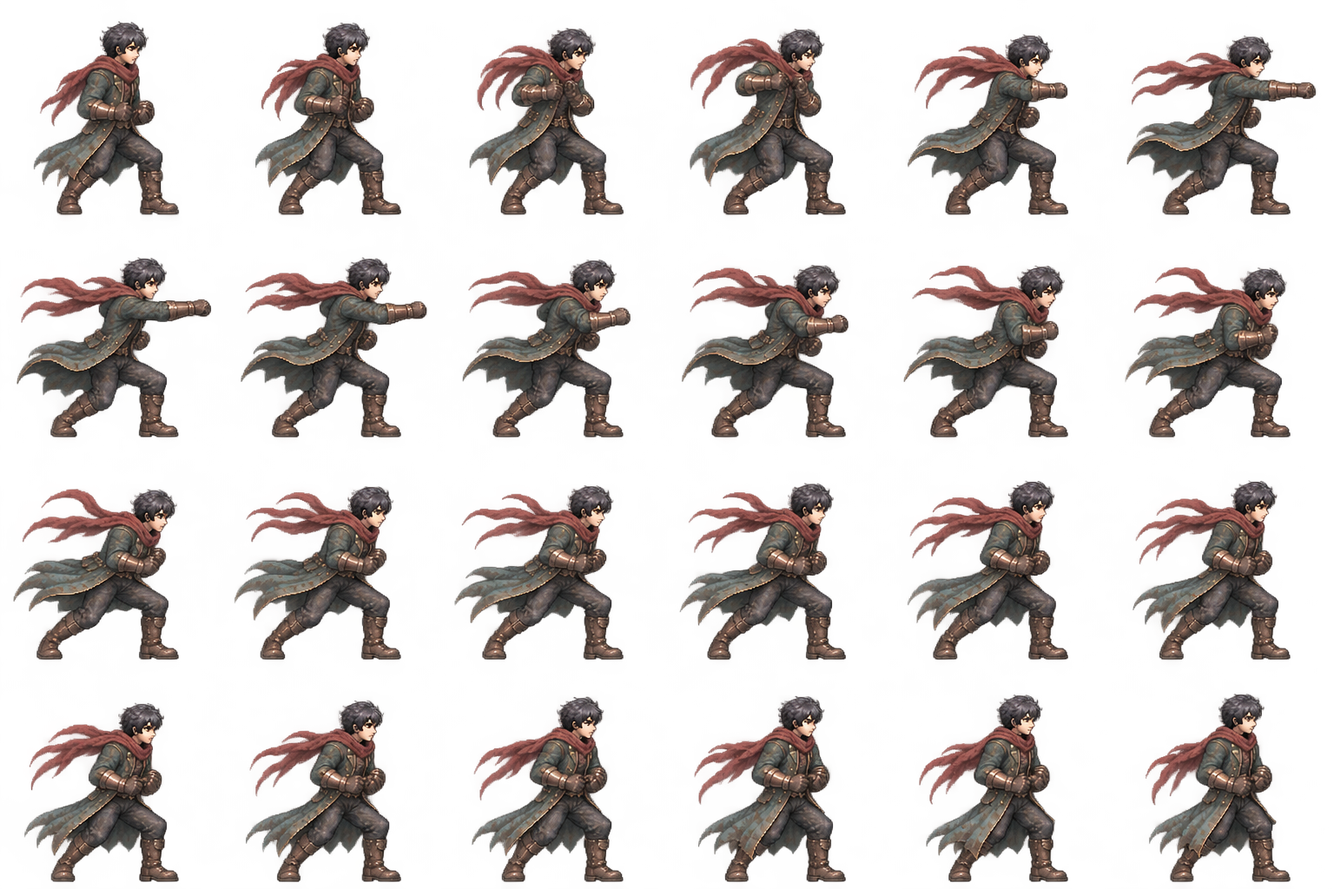
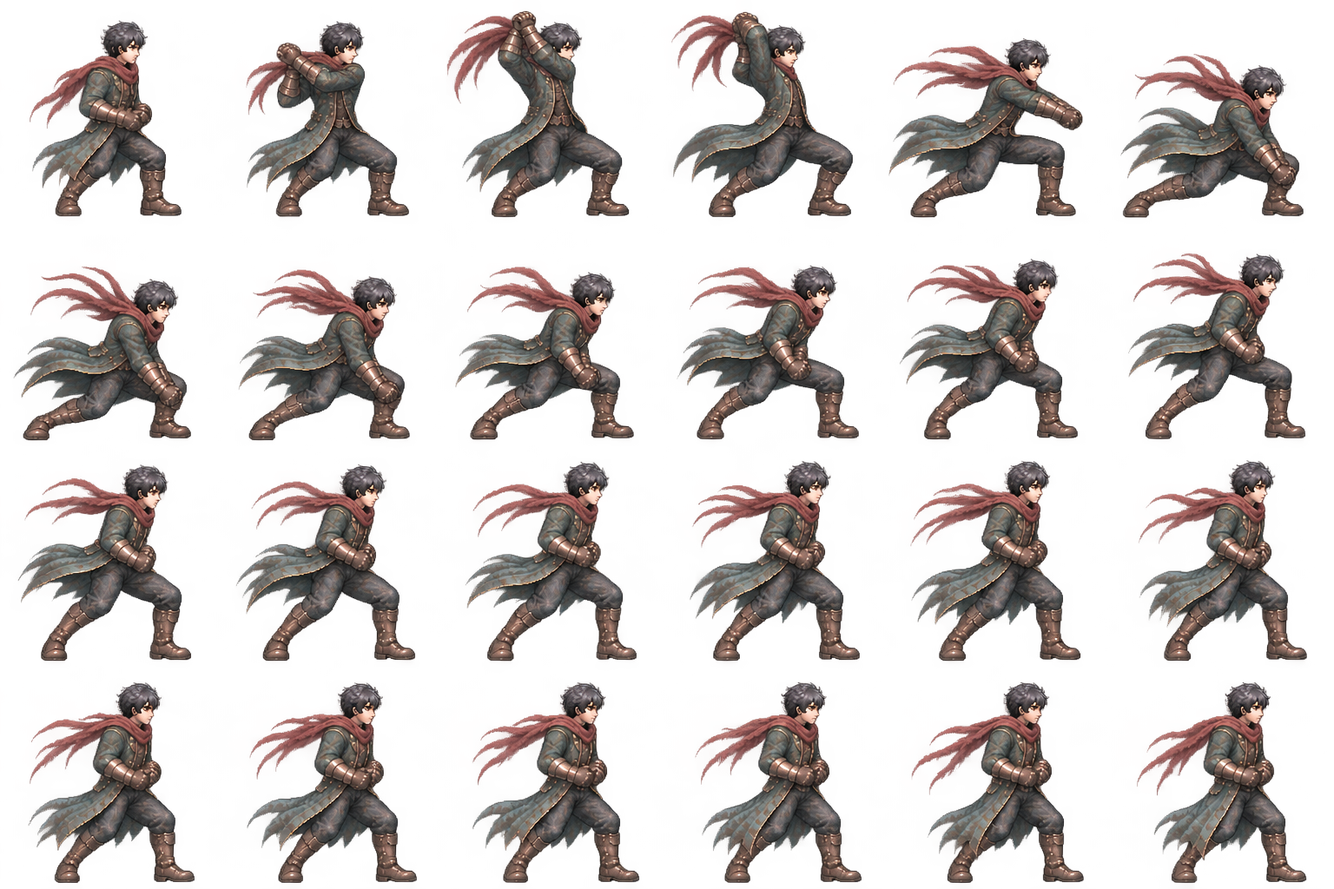
Make sword cuts broad and give thrusts a clear elbow-back windup

diff --git a/seventh-bell/src/cuts.js b/seventh-bell/src/cuts.js
@@ -1,12 +1,12 @@
 // Each melee clip has 24 actual body drawings in a 6 x 4 atlas. These are
 // sprite frames, not trail samples or repeated copies of the old eight poses.
-export const STEEL={length:30,guard:.185,grip:.095,axis:.5};
+export const STEEL={length:48,guard:.185,grip:.095,axis:.5};
 export const CUT_FRAMES=24;
-export const CUT_CLIPS=['light1','light2','light3','heavy','air','plunge'];
-const HANDS={"light1":[[83,64],[82,64],[82,54],[81,48],[100,52],[108,52],[109,54],[111,54],[105,56],[101,58],[95,61],[92,63],[86,65],[85,66],[85,66],[85,66],[85,66],[85,66],[85,66],[85,66],[85,66],[84,65],[84,65],[84,65]],"light2":[[81,80],[80,85],[75,87],[75,89],[95,58],[107,23],[99,15],[101,24],[103,35],[101,49],[96,58],[93,66],[87,67],[86,68],[86,69],[86,70],[86,70],[86,71],[85,73],[85,73],[85,73],[85,73],[85,73],[85,73]],"light3":[[80,75],[84,53],[85,36],[66,16],[101,64],[113,89],[97,98],[97,91],[94,83],[90,78],[89,71],[87,68],[86,67],[86,67],[86,67],[86,67],[86,67],[86,67],[86,68],[86,68],[86,68],[86,68],[86,68],[86,68]],"heavy":[[87,77],[85,53],[82,36],[72,13],[102,38],[111,97],[96,103],[95,91],[92,83],[90,79],[87,74],[87,69],[84,69],[85,69],[85,69],[85,69],[85,69],[85,69],[85,70],[85,70],[85,70],[85,70],[85,70],[85,70]],"air":[[79,80],[84,49],[78,30],[65,9],[104,66],[112,91],[96,98],[96,90],[94,83],[91,79],[90,75],[88,71],[86,70],[86,70],[86,70],[86,70],[86,70],[86,70],[86,70],[86,70],[86,70],[86,70],[86,70],[86,70]],"plunge":[[88,68],[84,44],[86,38],[80,47],[79,73],[88,110],[79,98],[77,86],[80,77],[83,70],[85,68],[85,67],[85,67],[85,67],[85,67],[85,67],[85,67],[85,67],[85,67],[85,67],[85,67],[85,67],[85,67],[85,67]]};
-const FEET={"light1":[123.5,123.5,123.5,123.5,123.5,123.5,123.5,124.0,123.5,123.5,123.5,123.5,124.0,124.0,124.0,124.0,124.0,124.0,124.0,124.0,124.0,124.0,124.0,124.0],"light2":[122.5,122.5,122.5,122.5,122.5,122.5,122.0,122.5,122.5,122.5,122.0,122.5,122.5,122.5,122.5,122.5,122.5,122.5,122.5,122.5,122.5,122.5,122.5,122.5],"light3":[124.0,124.0,124.0,124.0,124.5,124.5,124.5,124.5,124.5,124.5,124.5,124.5,123.5,123.5,123.5,124.0,124.0,123.5,124.0,124.0,124.0,124.0,124.0,124.0],"heavy":[124.0,124.0,124.5,124.0,124.5,124.0,124.0,124.0,124.0,124.0,124.0,124.0,123.5,124.0,123.5,123.5,123.5,123.5,123.5,123.5,123.5,123.5,123.5,123.5],"air":[125.5,124.5,125.0,126.0,125.0,123.5,122.0,122.5,124.5,125.0,125.0,125.0,123.0,122.5,122.5,122.0,123.5,123.5,122.5,123.5,122.5,123.5,123.5,123.5],"plunge":[120.5,112.0,120.0,123.5,128.0,128.0,123.5,123.5,123.5,123.5,123.5,123.5,122.5,122.5,122.5,122.5,122.5,122.5,123.0,123.0,123.0,123.0,123.0,123.0]};
-const ROOTS={"light1":[72,72,72,73,74,74,74,74,74,74,74,74,72,72,72,72,72,72,72,72,72,72,72,72],"light2":[70,70,70,70,70,70,70,70,70,70,70,70,70,70,70,70,70,70,70,70,70,70,70,70],"light3":[70,70,70,70,70,70,70,70,70,70,70,70,70,70,70,70,70,70,70,70,70,70,70,70],"heavy":[70,70,70,70,70,70,70,70,70,70,70,70,70,70,70,70,70,70,70,70,70,70,70,70],"air":[70,70,70,70,70,70,70,70,70,70,70,70,70,70,70,70,70,70,70,70,70,70,70,70],"plunge":[74,74,74,74,74,74,74,74,74,74,74,74,74,74,74,74,74,74,74,74,74,74,74,74]};
-const ANGLES={"light1":[35,8,-12,-30,-22,25,32,38,43,48,50,49,47,45,43,41,39,38,37,36,35,35,35,35],"light2":[35,55,85,110,50,-100,-105,-96,-82,-63,-42,-20,0,14,22,28,32,35,35,35,35,35,35,35],"light3":[35,-5,-65,-120,-100,58,67,65,62,57,50,45,42,39,37,36,35,35,35,35,35,35,35,35],"heavy":[35,-10,-70,-125,-105,66,75,70,65,59,53,48,43,40,38,36,35,35,35,35,35,35,35,35],"air":[35,-10,-70,-125,-100,65,75,70,65,59,53,48,43,40,38,36,35,35,35,35,35,35,35,35],"plunge":[35,70,90,90,90,90,70,60,50,45,42,40,38,36,35,35,35,35,35,35,35,35,35,35]};
+export const CUT_CLIPS=['light1','light2','light3','heavy','air','plunge','thrust'];
+const HANDS={"light1":[[80,68],[38,30],[45,15],[47,14],[102,67],[102,98],[99,96],[100,94],[99,89],[93,85],[86,78],[87,73],[85,69],[85,69],[85,69],[85,69],[85,69],[85,69],[85,69],[85,69],[85,69],[85,69],[85,69],[85,69]],"light2":[[81,80],[80,85],[75,87],[75,89],[95,58],[107,23],[99,15],[101,24],[103,35],[101,49],[96,58],[93,66],[87,67],[86,68],[86,69],[86,70],[86,70],[86,71],[85,73],[85,73],[85,73],[85,73],[85,73],[85,73]],"light3":[[80,75],[84,53],[85,36],[66,16],[101,64],[113,89],[97,98],[97,91],[94,83],[90,78],[89,71],[87,68],[86,67],[86,67],[86,67],[86,67],[86,67],[86,67],[86,68],[86,68],[86,68],[86,68],[86,68],[86,68]],"heavy":[[87,77],[85,53],[82,36],[72,13],[102,38],[111,97],[96,103],[95,91],[92,83],[90,79],[87,74],[87,69],[84,69],[85,69],[85,69],[85,69],[85,69],[85,69],[85,70],[85,70],[85,70],[85,70],[85,70],[85,70]],"air":[[79,80],[84,49],[78,30],[65,9],[104,66],[112,91],[96,98],[96,90],[94,83],[91,79],[90,75],[88,71],[86,70],[86,70],[86,70],[86,70],[86,70],[86,70],[86,70],[86,70],[86,70],[86,70],[86,70],[86,70]],"plunge":[[88,68],[84,44],[86,38],[80,47],[79,73],[88,110],[79,98],[77,86],[80,77],[83,70],[85,68],[85,67],[85,67],[85,67],[85,67],[85,67],[85,67],[85,67],[85,67],[85,67],[85,67],[85,67],[85,67],[85,67]],"thrust":[[81,68],[63,66],[52,65],[47,65],[101,52],[116,51],[119,49],[120,49],[120,50],[117,53],[111,56],[104,57],[98,59],[95,61],[88,64],[88,65],[88,65],[88,66],[87,65],[87,65],[87,65],[87,65],[87,65],[87,65]]};
+const FEET={"light1":[124.5,124.5,125.0,125.0,125.0,125.0,125.5,125.5,125.0,125.0,125.0,125.0,124.5,124.5,124.5,124.5,124.5,124.5,124.5,124.5,124.5,124.5,124.5,124.5],"light2":[122.5,122.5,122.5,122.5,122.5,122.5,122.0,122.5,122.5,122.5,122.0,122.5,122.5,122.5,122.5,122.5,122.5,122.5,122.5,122.5,122.5,122.5,122.5,122.5],"light3":[124.0,124.0,124.0,124.0,124.5,124.5,124.5,124.5,124.5,124.5,124.5,124.5,123.5,123.5,123.5,124.0,124.0,123.5,124.0,124.0,124.0,124.0,124.0,124.0],"heavy":[124.0,124.0,124.5,124.0,124.5,124.0,124.0,124.0,124.0,124.0,124.0,124.0,123.5,124.0,123.5,123.5,123.5,123.5,123.5,123.5,123.5,123.5,123.5,123.5],"air":[125.5,124.5,125.0,126.0,125.0,123.5,122.0,122.5,124.5,125.0,125.0,125.0,123.0,122.5,122.5,122.0,123.5,123.5,122.5,123.5,122.5,123.5,123.5,123.5],"plunge":[120.5,112.0,120.0,123.5,128.0,128.0,123.5,123.5,123.5,123.5,123.5,123.5,122.5,122.5,122.5,122.5,122.5,122.5,123.0,123.0,123.0,123.0,123.0,123.0],"thrust":[124.5,124.5,124.5,124.5,124.5,124.5,124.5,124.5,124.5,124.5,124.5,124.5,124.5,124.5,124.5,124.5,124.5,124.5,124.5,124.5,124.5,124.5,124.5,124.5]};
+const ROOTS={"light1":[70,70,70,70,70,70,70,70,70,70,70,70,70,70,70,70,70,70,70,70,70,70,70,70],"light2":[70,70,70,70,70,70,70,70,70,70,70,70,70,70,70,70,70,70,70,70,70,70,70,70],"light3":[70,70,70,70,70,70,70,70,70,70,70,70,70,70,70,70,70,70,70,70,70,70,70,70],"heavy":[70,70,70,70,70,70,70,70,70,70,70,70,70,70,70,70,70,70,70,70,70,70,70,70],"air":[70,70,70,70,70,70,70,70,70,70,70,70,70,70,70,70,70,70,70,70,70,70,70,70],"plunge":[74,74,74,74,74,74,74,74,74,74,74,74,74,74,74,74,74,74,74,74,74,74,74,74],"thrust":[70,70,70,70,70,70,70,70,70,70,70,70,70,70,70,70,70,70,70,70,70,70,70,70]};
+const ANGLES={"light1":[20,-70,-120,-130,-60,30,30,30,30,30,30,28,26,24,22,20,20,20,20,20,20,20,20,20],"light2":[20,25,20,15,35,-110,-110,-110,-110,-110,-105,-95,-80,-60,-40,-20,0,15,20,20,20,20,20,20],"light3":[20,-30,-90,-130,-70,35,35,35,35,35,35,32,29,26,23,20,20,20,20,20,20,20,20,20],"heavy":[20,-30,-90,-135,-75,40,40,40,40,40,40,36,32,28,24,20,20,20,20,20,20,20,20,20],"air":[20,-30,-90,-130,-65,65,65,65,65,65,60,55,50,45,40,35,30,25,20,20,20,20,20,20],"plunge":[35,70,90,90,90,90,70,60,50,45,42,40,38,36,35,35,35,35,35,35,35,35,35,35],"thrust":[0,0,0,0,0,0,0,0,0,0,0,0,0,0,0,0,0,0,0,0,0,0,0,0]};
 // Four short anticipation drawings, two contact drawings, eighteen recovery
 // drawings. Cancels can intentionally interrupt recovery; there is no 3D yaw.
 export function cutStage(a){
@@ -18,17 +18,17 @@ export function cutStage(a){
  if(t<s.end)return 4+Math.min(1,Math.floor((t-s.windup)/(s.end-s.windup)*2));
  return 6+Math.min(17,Math.floor((t-s.end)/(s.duration-s.end)*18));
 }
-const CLIP={charge:'heavy',thrust:'light1',upper:'light2',counter:'light1',plunge:'plunge'};
+const CLIP={charge:'heavy',thrust:'thrust',upper:'light2',counter:'light1',plunge:'plunge'};
 export function cutAngle(a){return ANGLES[CLIP[a.kind]||(a.air?'air':a.kind)][cutStage(a)];}
 export function cutPose(p,clock=0){const a=p.action;
- if(!a){if(p.grounded&&Math.abs(p.vx)<12&&!p.brake&&!p.land&&!p.hurt&&!p.dead){const col=Math.floor(clock*5)%8;return{sheet:'cut-body',row:3,col,size:74,root:[79.5,79.5,79.5,79.5,79.5,78.5,78.5,79][col],foot:[121,121,121,122,122,122,121,121][col],hand:[[68,80],[68,80],[69,80],[68,80],[68,80],[67,80],[67,80],[68,80]][col],angle:35,steel:true};}return null;}
+ if(!a){if(p.grounded&&Math.abs(p.vx)<12&&!p.brake&&!p.land&&!p.hurt&&!p.dead){const col=Math.floor(clock*5)%8;return{sheet:'cut-body',row:3,col,size:74,root:[79.5,79.5,79.5,79.5,79.5,78.5,78.5,79][col],foot:[121,121,121,122,122,122,121,121][col],hand:[[68,80],[68,80],[69,80],[68,80],[68,80],[67,80],[67,80],[68,80]][col],angle:20,steel:true};}return null;}
  if(!['light1','light2','light3','heavy',...Object.keys(CLIP)].includes(a.kind))return null;
  const clip=CLIP[a.kind]||((a.air||!p.grounded)?'air':a.kind),frame=cutStage(a),foot=FEET[clip][frame],hand=HANDS[clip][frame];
  let angle=ANGLES[clip][frame];
- if(a.kind==='thrust')angle=0;
+ if(a.kind==='thrust')angle=frame<17?0:(frame-16)*20/7;
  // The held counter has the same side-view cut, driven further along the floor.
  // Grounded low grips turn the wrist rather than burying steel in the floor.
  if(p.grounded&&angle>0){const reach=STEEL.length+(STEEL.guard-STEEL.grip)*STEEL.length/(1-STEEL.guard),clearance=(foot-hand[1])*74/128-1.5,limit=Math.asin(Math.max(0,Math.min(1,clearance/reach)))*180/Math.PI;if(Math.sin(angle*Math.PI/180)>Math.sin(limit*Math.PI/180))angle=Math.cos(angle*Math.PI/180)<0?180-limit:limit;}
- return{sheet:'cut-'+clip,clip,frame,col:frame%6,row:Math.floor(frame/6),size:74,root:ROOTS[clip][frame],foot,hand,angle,steel:true};
+ return{sheet:'cut-'+clip,clip,frame,col:frame%6,row:Math.floor(frame/6),size:74,root:ROOTS[clip][frame],foot,hand,angle,steel:true,bladeBehind:a.kind==='thrust'&&frame<4};
 }
 export function steelRig(p,pose){const s=pose.size/128,theta=pose.angle*Math.PI/180,c=Math.cos(theta)*p.dir,d=Math.sin(theta),width=STEEL.length/(1-STEEL.guard),offset=(STEEL.guard-STEEL.grip)*width,handX=p.x+(pose.hand[0]-pose.root)*s*p.dir,handY=p.y+(pose.hand[1]-pose.foot)*s;return{handX,handY,angle:pose.angle,width,ax:handX+c*offset,ay:handY+d*offset,bx:handX+c*(offset+STEEL.length),by:handY+d*(offset+STEEL.length)};}

diff --git a/seventh-bell/src/main.js b/seventh-bell/src/main.js
@@ -34,7 +34,7 @@ function skillTree(branch=null){if(game.p.dead)return;const p=game.profile,b=she
  $$('[data-branch]').forEach(btn=>btn.onclick=()=>skillTree(btn.dataset.branch));$$('[data-learn]').forEach(btn=>btn.onclick=()=>{const id=btn.dataset.learn;if(game.learn(id)){skillTree(TALENTS[id].branch);updateUI();}});actions(b,[{label:'수첩',action:journal},{label:'돌아간다',primary:true,action:close}]);}
 function map(){if(game.p.dead)return;if(game.inTutorial){notify('작업대의 돌턱을 넘어 점검기사를 만난 뒤, 오른쪽 종으로 나가면 된다.');return;}const b=shell('왕국의 다섯 지역','걸어온 길');b.innerHTML='<canvas id="map" class="map-canvas" width="560" height="190"></canvas><p>성벽 → 대성당 → 제철도시 → 뒤집힌 서고 → 왕궁. 종을 조정하면 다음 구역의 문이 열린다.</p><p class="notes">종 앞에서는 진행만 기록한다. 체력과 약병은 보충되지 않는다.</p>';const c=$('#map').getContext('2d'),scale=536/game.world.w;for(const p of game.world.platforms){if(p.echo&&!game.profile.flags.echo||p.memory&&!game.profile.flags.memory||p.index&&!game.profile.flags.index)continue;c.fillStyle=p.echo?'#77ada4':p.tile===2?'#526e75':'#9b9a85';c.fillRect(12+p.x*scale,25+p.y*.23,Math.max(2,p.w*scale),3);}c.font='10px sans-serif';c.fillStyle='#bfc6b7';for(const[x,t]of[[16,'I · 성벽'],[125,'II · 대성당'],[230,'III · 제철도시'],[340,'IV · 서고'],[450,'V · 왕궁']])c.fillText(t,x,48);for(const o of game.world.objects.filter(o=>o.type==='shrine')){c.fillStyle='#d0b78a';c.fillRect(10+o.x*scale,20+o.y*.23,5,6);}c.fillStyle='#c9e3dd';c.fillRect(10+game.p.x*scale,20+game.p.y*.23,4,5);actions(b,[{label:'수첩으로',action:journal},{label:'접는다',primary:true,action:close}]);}
 
-function help(){const b=shell('조작 안내','이름 없는 수리공');b.innerHTML='<div class="key-grid">'+[['A D / ← →','이동'],['Space','도약'],['Shift','회피 · 길게 눌러 달리기'],['J / 좌클릭','일반 공격 · 세 번 이어치기'],['K / X','강공격 · 길게 눌러 모아 베기'],['L / 우클릭','막기 · 맞기 직전에 패링'],['Q','공명 기술'],['H','약병 · 세 병, 최대 체력의 40%'],['W / E','장치 · 기록 · 칼 수리'],['V','잔향 감지 · 획득 후'],['I / Tab · T','수첩 · 기술 나무'],['M / Esc','지도 / 메뉴']].map(([key,text])=>'<span><kbd>'+key+'</kbd>'+text+'</span>').join('')+'</div><p>막기는 정면에서만 된다. 맞기 직전에 받아내면 집중을 돌려받는다.</p><p>공격을 두 번 더 눌러 횡베기·올려베기·내려찍기를 잇는다. ↑+공격은 대공, 공중에서 ↓+공격은 낙하 공격이다. 회피 중 공격하면 찌르고, 패링 직후 공격하면 베며 파고든다. K를 길게 눌렀다 떼면 모아 벤다. 칼을 거둬들이는 동안에는 도약·회피로 빠져나올 수 있다. 회피와 공격은 집중을 쓰며, 손을 쉬면 다시 찬다.</p><p>엘마의 말은 가까이 가면 들을 수 있다. 부탁이 끝나면 수락할지 고르면 된다. 약은 멈춰 서서 마신다. 마시는 동안 맞으면 약만 잃는다. 종 앞에서는 체력과 약병이 차지 않는다. 쓰러진 뒤 다시 일어날 때 약병 세 개를 챙긴다. 각 종 근처 정비대에서 장비를 손보고, 기록한 종 사이를 이동할 수 있다.</p><p class="notes">터치 기기에서는 아래 이동·동작 버튼을 사용한다. 올려·찍기 버튼으로 대공·낙하 공격을 쓰고, 강타를 누르고 있다 떼면 모아 벤다. 가까운 장치를 누르면 대화하거나 작동시킬 수 있다. 기록은 이 기기의 브라우저에 저장된다.</p>';actions(b,[{label:'알겠다',primary:true,action:close}]);}
+function help(){const b=shell('조작 안내','이름 없는 수리공');b.innerHTML='<div class="key-grid">'+[['A D / ← →','이동'],['Space','도약'],['Shift','회피 · 길게 눌러 달리기'],['J / 좌클릭','일반 공격 · 세 번 이어치기'],['K / X','강공격 · 길게 눌러 모아 베기'],['L / 우클릭','막기 · 맞기 직전에 패링'],['Q','공명 기술'],['H','약병 · 세 병, 최대 체력의 40%'],['W / E','장치 · 기록 · 칼 수리'],['V','잔향 감지 · 획득 후'],['I / Tab · T','수첩 · 기술 나무'],['M / Esc','지도 / 메뉴']].map(([key,text])=>'<span><kbd>'+key+'</kbd>'+text+'</span>').join('')+'</div><p>막기는 정면에서만 된다. 맞기 직전에 받아내면 집중을 돌려받는다.</p><p>공격을 두 번 더 눌러 사선 베기·올려베기·내려찍기를 잇는다. ↑+공격은 대공, 공중에서 ↓+공격은 낙하 공격이다. 회피 중 공격하면 찌르고, 패링 직후 공격하면 베며 파고든다. K를 길게 눌렀다 떼면 모아 벤다. 칼을 거둬들이는 동안에는 도약·회피로 빠져나올 수 있다. 회피와 공격은 집중을 쓰며, 손을 쉬면 다시 찬다.</p><p>엘마의 말은 가까이 가면 들을 수 있다. 부탁이 끝나면 수락할지 고르면 된다. 약은 멈춰 서서 마신다. 마시는 동안 맞으면 약만 잃는다. 종 앞에서는 체력과 약병이 차지 않는다. 쓰러진 뒤 다시 일어날 때 약병 세 개를 챙긴다. 각 종 근처 정비대에서 장비를 손보고, 기록한 종 사이를 이동할 수 있다.</p><p class="notes">터치 기기에서는 아래 이동·동작 버튼을 사용한다. 올려·찍기 버튼으로 대공·낙하 공격을 쓰고, 강타를 누르고 있다 떼면 모아 벤다. 가까운 장치를 누르면 대화하거나 작동시킬 수 있다. 기록은 이 기기의 브라우저에 저장된다.</p>';actions(b,[{label:'알겠다',primary:true,action:close}]);}
 function pause(){if(game.p.dead)return;const b=shell('잠깐 쉬어 간다','메뉴');b.innerHTML='<p>이야기는 여기서 기다린다.</p>';actions(b,[{label:'계속하기',primary:true,id:'resume',action:close},{label:'기록하기',action:()=>{notify(game.trainingReturn?'본편 기록은 그대로 남아 있다. 연습은 저장하지 않는다.':game.save()?'기록했다.':'이 브라우저에서는 기록을 저장할 수 없다.');}},{label:audio.muted?'소리 켜기':'소리 끄기',action:()=>{audio.unlock();audio.muted=!audio.muted;pause();}},{label:game.inTutorial?'연습 나가기':'조작 연습',id:'practice-button',disabled:game.bossActive,action:()=>{close();if(game.inTutorial)game.finishTutorial(true);else if(game.beginTutorial())render.snap();}},{label:'조작 안내',action:help},{label:'처음 화면',id:'return-title',action:()=>{game.save();$('#modal-layer').hidden=true;modal=null;$('#welcome').hidden=false;$('#hud').hidden=true;updateWelcome();game.paused=true;clearInput();}}]);}
 const RECORDS={royalorder:{title:'왕의 마지막 명령서',tag:'인장이 없는 문서',body:'<p>“종을 맡은 자가 돌아오지 않으면 왕궁의 장작을 서문으로 보낼 것.”</p><p>수레 수와 집 주소가 빽빽했다. 글씨가 겹쳐진 곳은 여러 번 고쳐 쓴 흔적이었다.</p><p>아래에는 왕이 쓰던 종의 박자표가 붙어 있었다.</p>',boss:true},
  hymn:{title:'찢어진 성가 악보',tag:'마리에의 글씨',body:'<p>“아이들 몫은 내게 묶어 두세요. 오늘은 제가 부르겠습니다.”</p><p>기침 자국 아래, 종의 박자가 적혀 있다.</p>',boss:true},

diff --git a/seventh-bell/src/art.js b/seventh-bell/src/art.js
@@ -1,7 +1,7 @@
 import {STEEL} from './cuts.js';
 import {registeredPose} from './blade.js';
 import {PATTERNS} from './bosses.js';
-export const SHEETS={'cut-light1':[6,4,128],'cut-light2':[6,4,128],'cut-light3':[6,4,128],'cut-heavy':[6,4,128],'cut-air':[6,4,128],'cut-plunge':[6,4,128],'cut-body':[8,4,128],'steel-blade':[1,1,128],tutor:[6,4,128],swordplay:[8,4,128],'motion-extras':[8,4,128],'echo-blade':[4,2,128],arkein:[6,4,128],traps:[4,3,128],repairman:[8,8,64],remnants:[8,6,64],edran:[6,4,128],marie:[6,4,128],brag:[6,4,128],leonel:[6,4,128],services:[4,2,128],'archive-objects':[4,2,128],objects:[4,4,128],masonry:[4,4,128]};
+export const SHEETS={'cut-light1':[6,4,128],'cut-light2':[6,4,128],'cut-light3':[6,4,128],'cut-heavy':[6,4,128],'cut-air':[6,4,128],'cut-plunge':[6,4,128],'cut-thrust':[6,4,128],'cut-body':[8,4,128],'steel-blade':[1,1,128],tutor:[6,4,128],swordplay:[8,4,128],'motion-extras':[8,4,128],'echo-blade':[4,2,128],arkein:[6,4,128],traps:[4,3,128],repairman:[8,8,64],remnants:[8,6,64],edran:[6,4,128],marie:[6,4,128],brag:[6,4,128],leonel:[6,4,128],services:[4,2,128],'archive-objects':[4,2,128],objects:[4,4,128],masonry:[4,4,128]};
 const sheets=new Map(),cache=new Map();
 export async function loadArt(progress=()=>{}){let n=0;const ids=[...Object.keys(SHEETS),'kingdom','ruins','cathedral','foundry','archive','palace'];await Promise.all(ids.map(id=>new Promise((resolve,reject)=>{const image=new Image();image.onload=()=>{sheets.set(id,image);progress(++n/ids.length);resolve();};image.onerror=()=>reject(Error(id));image.src=new URL('../assets/'+id+'.png',import.meta.url).href+new URL(import.meta.url).search;})));}
 export function sheet(id){return sheets.get(id);}
@@ -21,10 +21,10 @@ export function heroFrame(p,clock){if(p.dead)return[7,4+Math.min(3,Math.floor(p.
 const ghostCache=new Map();
 function ghostCell(id,col,row){const key=[id,col,row].join(':');if(ghostCache.has(key))return ghostCache.get(key);const src=cell(id,col,row),c=document.createElement('canvas');c.width=src.width;c.height=src.height;const ctx=c.getContext('2d');ctx.drawImage(src,0,0);ctx.globalCompositeOperation='source-in';ctx.fillStyle='#91b9b2';ctx.fillRect(0,0,c.width,c.height);ghostCache.set(key,c);return c;}
 function paintSteel(ctx,pose){const im=cell('steel-blade',0,0),b=im.opaqueBounds,s=pose.size/128,w=STEEL.length/(1-STEEL.guard),h=w*b.h/b.w/im.sourceAspect*1.35;ctx.save();ctx.translate((pose.hand[0]-pose.root)*s,(pose.hand[1]-pose.foot)*s);ctx.rotate(pose.angle*Math.PI/180);ctx.drawImage(im,b.x,b.y,b.w,b.h,-STEEL.grip*w,-STEEL.axis*h,w,h);ctx.restore();}
-export function drawPose(ctx,pose,x,y,dir,alpha=1,ghost=false){const s=pose.size/128,im=ghost?ghostCell(pose.sheet,pose.col,pose.row):cell(pose.sheet,pose.col,pose.row);ctx.save();ctx.globalAlpha*=alpha;ctx.translate(Math.round(x),Math.round(y));if(dir<0)ctx.scale(-1,1);const behind=pose.steel&&Math.cos(pose.angle*Math.PI/180)<0;if(behind)paintSteel(ctx,pose);ctx.drawImage(im,-pose.root*s,-pose.foot*s,pose.size,pose.size);if(pose.steel&&!behind){paintSteel(ctx,pose);const [hx,hy]=pose.hand;ctx.drawImage(im,hx-3,hy-3,6,6,(hx-pose.root-3)*s,(hy-pose.foot-3)*s,6*s,6*s);}ctx.restore();}
+export function drawPose(ctx,pose,x,y,dir,alpha=1,ghost=false){const s=pose.size/128,im=ghost?ghostCell(pose.sheet,pose.col,pose.row):cell(pose.sheet,pose.col,pose.row);ctx.save();ctx.globalAlpha*=alpha;ctx.translate(Math.round(x),Math.round(y));if(dir<0)ctx.scale(-1,1);const behind=pose.steel&&(pose.bladeBehind||Math.cos(pose.angle*Math.PI/180)<0);if(behind)paintSteel(ctx,pose);ctx.drawImage(im,-pose.root*s,-pose.foot*s,pose.size,pose.size);if(pose.steel&&!behind){paintSteel(ctx,pose);const [hx,hy]=pose.hand;ctx.drawImage(im,hx-3,hy-3,6,6,(hx-pose.root-3)*s,(hy-pose.foot-3)*s,6*s,6*s);}ctx.restore();}
 export function drawHero(ctx,p,clock){const pose=!p.dead&&p.hurt<=0&&registeredPose(p,clock);if(!pose){const [row,col]=heroFrame(p,clock);draw(ctx,'repairman',col,row,p.x,p.y,64,64,p.dir<0,1,p.grounded);return;}drawPose(ctx,pose,p.x,p.y,p.dir);}
 export function boundedProp(ctx,col,row,x,y,w,h,center=false){const im=cell('traps',col,row),b=im.opaqueBounds;ctx.drawImage(im,b.x,b.y,b.w,b.h,Math.round(x-w/2),Math.round(y-(center?h/2:h)),w,h);}
 export function enemyFrame(e,clock){if(e.boss){if(e.dead)return[3,Math.min(5,3+Math.floor(e.deathT*2))];if(e.state==='weakened')return[3,e.id==='edran'?2:3];if(e.stagger>0)return[3,0];if(e.state==='transition')return[e.id==='edran'?2:3,e.id==='edran'?0:2];const a=PATTERNS[e.pattern];if(a&&e.state==='windup')return[a.row,e.id==='arkein'?Math.min(2,Math.floor(e.t/(e.second?.85:a.windup)*3)):a.prep];if(a&&e.state==='attack')return[a.row,e.id==='arkein'?3+Math.min(1,Math.floor(e.t/a.active*2)):a.strike];if(e.state==='recover'&&e.id==='arkein')return[a?.row||1,5];if(e.state==='recover')return[e.id==='edran'?1:0,e.id==='edran'?5:0];return[0,Math.floor(e.walk*.035||clock*3)%6];}
 
  const base=e.type==='watchman'?0:e.type==='cantor'?2:4;if(e.dead)return[base+1,Math.min(7,6+Math.floor(e.deathT*2))];if(e.stagger>0)return[base+1,4+Math.floor(clock*9)%2];if(e.state==='windup')return[base+1,Math.min(1,Math.floor(e.t*3))];if(e.state==='attack')return[base+1,2+Math.floor(e.t*10)%2];return[base,Math.floor(e.walk*.1||clock*(e.flying?9:5))%8];}
-export function artStats(){return {loaded:[...sheets.keys()],cached:cache.size,heroFrames:304,cutBodyFrames:32,attackClips:6,attackFrames:144,framesPerAttack:24,enemyFrames:48,bossFrames:120,trainingFrames:24};}
+export function artStats(){return {loaded:[...sheets.keys()],cached:cache.size,heroFrames:328,cutBodyFrames:32,attackClips:7,attackFrames:168,framesPerAttack:24,enemyFrames:48,bossFrames:120,trainingFrames:24};}

diff --git a/seventh-bell/src/blade.js b/seventh-bell/src/blade.js
@@ -12,11 +12,23 @@ const BLADES=[
 const AIR=[READY,[45,74,8,99],[39,31,90,5],[75,53,106,75],[78,61,124,61],[75,87,108,115],[72,95,120,109],READY];
 export function attackFrame(s,t){if(t<s.windup)return Math.min(2,Math.floor(t/s.windup*3));if(t<s.end)return 3+Math.min(2,Math.floor((t-s.windup)/(s.end-s.windup)*3));return 6+Math.min(1,Math.floor((t-s.end)/(s.duration-s.end)*2));}
 export function registeredPose(p,clock=0){const cut=cutPose(p,clock);if(cut)return cut;const a=p.action;if(a?.spec){const col=attackFrame(a.spec,a.t),kind=a.kind,air=(a.air??!p.grounded)&&kind!=='heal'&&kind!=='skill';return {sheet:air?'motion-extras':kind==='heal'||kind==='skill'?'motion-extras':'swordplay',row:air?0:kind==='heal'?2:kind==='skill'?3:BLADE_ROWS[kind],col,size:80,root:62,foot:126,blade:air?AIR[col]:BLADES[BLADE_ROWS[kind]]?.[col]};}if(p.brake>0&&p.grounded&&!p.hurt&&!p.dead)return{sheet:'motion-extras',row:1,col:Math.min(3,Math.floor(p.brake*10)),size:80,root:62,foot:126};return null;}
-export function worldBlade(p,pose=registeredPose(p)){if(pose?.steel){const {ax,ay,bx,by}=steelRig(p,pose);return{ax,ay,bx,by};}if(!pose?.blade)return null;const [ax,ay,bx,by]=pose.blade,s=pose.size/128,dir=p.dir;return {ax:p.x+(ax-pose.root)*s*dir,ay:p.y+(ay-pose.foot)*s,bx:p.x+(bx-pose.root)*s*dir,by:p.y+(by-pose.foot)*s};}
+export function worldBlade(p,pose=registeredPose(p)){if(pose?.steel){const {ax,ay,bx,by}=steelRig(p,pose);return{ax,ay,bx,by,floor:p.grounded?p.y-1.5:null};}if(!pose?.blade)return null;const [ax,ay,bx,by]=pose.blade,s=pose.size/128,dir=p.dir;return {ax:p.x+(ax-pose.root)*s*dir,ay:p.y+(ay-pose.foot)*s,bx:p.x+(bx-pose.root)*s*dir,by:p.y+(by-pose.foot)*s};}
 // Liang–Barsky segment/box intersection, with a 2px steel edge allowance.
 export function bladeTouches(b,r,radius=2){if(!b)return false;let lo=0,hi=1;const dx=b.bx-b.ax,dy=b.by-b.ay;for(const [p,q]of[[-dx,b.ax-r.x+radius],[dx,r.x+r.w+radius-b.ax],[-dy,b.ay-r.y+radius],[dy,r.y+r.h+radius-b.ay]]){if(Math.abs(p)<1e-9){if(q<0)return false;continue;}const t=q/p;if(p<0)lo=Math.max(lo,t);else hi=Math.min(hi,t);if(lo>hi)return false;}return true;}
-export function sweptBlades(previous,current){if(!current)return[];if(!previous)return[current];const n=Math.max(1,Math.ceil(Math.max(Math.hypot(current.ax-previous.ax,current.ay-previous.ay),Math.hypot(current.bx-previous.bx,current.by-previous.by))/3));return Array.from({length:n+1},(_,i)=>Object.fromEntries(['ax','ay','bx','by'].map(k=>[k,previous[k]+(current[k]-previous[k])*i/n])));}
+// Sweep a rigid blade around its moving wrist. Linear interpolation of the tip
+// shortened steel into a chord and missed the outside of large cuts. The same
+// samples now drive collision and the visible crescent, with no range disk.
+export function sweptBlades(previous,current){
+ if(!current)return[];if(!previous)return[current];
+ const dx=current.ax-previous.ax,dy=current.ay-previous.ay,l0=Math.hypot(previous.bx-previous.ax,previous.by-previous.ay),l1=Math.hypot(current.bx-current.ax,current.by-current.ay);
+ const start=Math.atan2(previous.by-previous.ay,previous.bx-previous.ax),end=Math.atan2(current.by-current.ay,current.bx-current.ax),turn=Math.atan2(Math.sin(end-start),Math.cos(end-start));
+ const n=Math.max(1,Math.ceil((Math.hypot(dx,dy)+Math.abs(turn)*Math.max(l0,l1))/2),Math.ceil(Math.abs(turn)/(Math.PI/72)));
+ return Array.from({length:n+1},(_,i)=>{const f=i/n,ax=previous.ax+dx*f,ay=previous.ay+dy*f,len=l0+(l1-l0)*f;let angle=start+turn*f;
+  if(Number.isFinite(current.floor)&&Math.sin(angle)*len>current.floor-ay){const limit=Math.asin(Math.max(0,Math.min(1,(current.floor-ay)/len)));angle=Math.cos(angle)<0?Math.PI-limit:limit;}
+  return{ax,ay,bx:ax+Math.cos(angle)*len,by:ay+Math.sin(angle)*len,floor:current.floor};
+ });
+}
 // Load the rear leg, then drive the hips forward through the active cut.
 // These are actual collision-tested steps; the sprite is never teleported.
-export const ROOT_DRIVE={light1:{back:2,forward:9},light2:{back:2,forward:11},light3:{back:3,forward:16},heavy:{back:4,forward:14},thrust:{back:1,forward:46},upper:{back:2,forward:8},counter:{back:1,forward:62}};
+export const ROOT_DRIVE={light1:{back:3,forward:9},light2:{back:3,forward:11},light3:{back:4,forward:16},heavy:{back:4,forward:14},thrust:{back:4,forward:46},upper:{back:2,forward:8},counter:{back:2,forward:62}};
 export function rootStep(a,t){const r=a&&ROOT_DRIVE[a.kind];if(!r||t<=0)return 0;const s=a.spec;if(t<s.windup){const f=Math.max(0,t/s.windup);return-r.back*f*f;}const f=Math.max(0,Math.min(1,(t-s.windup)/(s.end-s.windup)));return-r.back+(r.forward+r.back)*f*f*(3-2*f);}

diff --git a/seventh-bell/src/afterimages.js b/seventh-bell/src/afterimages.js
@@ -1,22 +1,24 @@
-import {registeredPose,worldBlade} from './blade.js';
+import {registeredPose,worldBlade,sweptBlades} from './blade.js';
 
 export const ECHO_LIFE=.14;
-// Join recorded blade poses around the wrist rather than cutting straight
-// across the swing with one large triangle. This is only the fading ribbon;
-// attack timing and collision continue to use the original animation frames.
+// The crescent follows the same rigid rotating steel as the hit samples.
+// It fades after contact and cannot deal damage again.
 export function ribbonEdges(a,b){
- const dx=b.ax-a.ax,dy=b.ay-a.ay,al=Math.hypot(a.bx-a.ax,a.by-a.ay),bl=Math.hypot(b.bx-b.ax,b.by-b.ay);
- const angle=Math.atan2(a.by-a.ay,a.bx-a.ax),end=Math.atan2(b.by-b.ay,b.bx-b.ax);
- const turn=Math.atan2(Math.sin(end-angle),Math.cos(end-angle));
- if(Math.abs(turn)<1e-6&&Math.hypot(dx,dy)<.1&&Math.abs(al-bl)<.1)return null;
- const steps=Math.min(64,Math.max(2,Math.ceil(Math.abs(turn)/(Math.PI/72)),Math.ceil(Math.hypot(dx,dy)/2)));
- const outer=[],inner=[];
- for(let i=0;i<=steps;i++){
-  const f=i/steps,x=a.ax+dx*f,y=a.ay+dy*f,len=al+(bl-al)*f,t=angle+turn*f,vx=Math.cos(t)*len,vy=Math.sin(t)*len;
-  outer.push({x:x+vx,y:y+vy});
-  inner.push({x:x+vx*.28,y:y+vy*.28});
- }
+ const turn=Math.atan2(Math.sin(Math.atan2(b.by-b.ay,b.bx-b.ax)-Math.atan2(a.by-a.ay,a.bx-a.ax)),Math.cos(Math.atan2(b.by-b.ay,b.bx-b.ax)-Math.atan2(a.by-a.ay,a.bx-a.ax)));
+ if(Math.abs(turn)<1e-6&&Math.hypot(b.ax-a.ax,b.ay-a.ay)<.1)return null;
+ const paths=sweptBlades(a,b),outer=paths.map(p=>({x:p.bx,y:p.by})),inner=paths.map(p=>({x:p.ax+(p.bx-p.ax)*.28,y:p.ay+(p.by-p.ay)*.28}));
  return{outer,inner};
 }
+const MELEE=['light1','light2','light3','heavy','thrust','upper','counter','plunge'];
+function sample(g,pose,blade){return{time:g.clock,swing:g.p.action.serial,kind:g.p.action.kind,x:g.p.x,y:g.p.y,dir:g.p.dir,pose:{...pose,hand:pose.hand?[...pose.hand]:undefined,blade:pose.blade?[...pose.blade]:undefined},blade:{...blade}};}
+// Keep the loaded pose privately. It appears in the crescent only once the
+// cut starts; anticipation itself still causes no damage and shows no arc.
+export function rememberSwing(g,a){if(!MELEE.includes(a.kind))return;const pose=registeredPose(g.p,g.clock),blade=worldBlade(g.p,pose);if(!blade)return;a.prepared=sample(g,pose,blade);a.previousBlade={...blade};}
 export function ageAfterimages(g){g.bladeEchoes=g.bladeEchoes.filter(e=>g.clock-e.time<ECHO_LIFE);}
-export function captureAfterimage(g,a){if(!['light1','light2','light3','heavy','thrust','upper','counter','plunge'].includes(a.kind)||a.t<a.spec.windup||a.kind!=='plunge'&&a.t>=a.spec.end)return;const pose=registeredPose(g.p,g.clock),blade=worldBlade(g.p,pose);if(!pose||!blade)return;const last=g.bladeEchoes.at(-1);if(last?.swing===a.serial&&g.clock-last.time<1/120-1e-6)return;g.bladeEchoes.push({time:g.clock,swing:a.serial,kind:a.kind,x:g.p.x,y:g.p.y,dir:g.p.dir,pose:{...pose,hand:pose.hand?[...pose.hand]:undefined,blade:pose.blade?[...pose.blade]:undefined},blade:{...blade}});if(g.bladeEchoes.length>24)g.bladeEchoes.splice(0,g.bladeEchoes.length-24);}
+export function captureAfterimage(g,a){
+ if(!MELEE.includes(a.kind)||a.t<a.spec.windup||a.kind!=='plunge'&&a.t>=a.spec.end)return;
+ const pose=registeredPose(g.p,g.clock),blade=worldBlade(g.p,pose);if(!pose||!blade)return;
+ if(!a.echoStarted){a.echoStarted=true;if(a.prepared)g.bladeEchoes.push({...a.prepared,time:g.clock-1/120});}
+ const last=g.bladeEchoes.at(-1);if(last?.swing===a.serial&&g.clock-last.time<1/120-1e-6)return;
+ g.bladeEchoes.push(sample(g,pose,blade));if(g.bladeEchoes.length>24)g.bladeEchoes.splice(0,g.bladeEchoes.length-24);
+}

diff --git a/seventh-bell/src/game.js b/seventh-bell/src/game.js
@@ -1,4 +1,4 @@
-import {ageAfterimages,captureAfterimage} from './afterimages.js';
+import {ageAfterimages,captureAfterimage,rememberSwing} from './afterimages.js';
 import {createTutorialWorld,newTutorial,trainerOf,tutorialSignal,tutorialHit,updateTutorial} from './tutorial.js';
 import {mapX,chapterAtWorld} from './layout.js';
 import {has,maxStamina,learnReason} from './skills.js';
@@ -73,7 +73,7 @@ export class Game{
  if(p.grounded&&!p.support?.echo)p.lastSafe={x:p.x,y:p.y};
  if(!wasGrounded&&p.grounded){p.land=.12;this.fx(p.x,p.y,'dust',.35);this.sound('land');}
  if(p.action&&p.action.kind!=='dash'){
-  const a=p.action;a.t+=dt;
+  const a=p.action;a.t+=dt;if(a.spec&&a.t<a.spec.windup)rememberSwing(this,a);
   if(a.kind==='charge'){
    if(a.t>=.5&&!a.ready){a.ready=true;this.fx(p.x+p.dir*8,p.y-39,'charge',.3);this.sound('parry');}
   }else if(a.kind==='plunge'){
@@ -96,7 +96,7 @@ export class Game{
  this.autosave+=dt;if(this.autosave>15){this.autosave=0;this.save();}}
  attackDamage(a){const p=this.profile;let n=a.spec.damage+p.upgrade*4+(p.level-1)*2+(p.flags.upper?7:0)+(a.kind==='heavy'&&p.flags.forge?12:0);if(a.kind==='skill'){if(has(p,'echocharge'))n*=1.2;}else{n+=(has(p,'edge')?3:0)+(has(p,'edge2')?4:0);if(a.kind==='light3'&&has(p,'finisher'))n*=1.2;if(a.air&&has(p,'aircut'))n*=1.2;}return Math.round(n*(a.power||1));}
  resolveAttack(a){const p=this.p,s=a.spec;if(a.kind==='skill'){if(!a.released){a.released=true;this.projectiles.push({kind:'echoBlade',friendly:true,x:p.x+p.dir*24,y:p.y-30,vx:p.dir*285,vy:0,damage:this.attackDamage(a),owner:'player',life:.6,range:145,distance:0,hit:new Set(),pierce:has(this.profile,'echo2')?3:2});}return;}
- if(!a.swung){a.swung=true;this.sound(['heavy','light3'].includes(a.kind)?'heavy':'swing');}captureAfterimage(this,a);const blade=worldBlade(p),paths=sweptBlades(a.previousBlade,blade).filter(b=>clearLine(this,p.x,p.y-30,b.ax,b.ay));a.previousBlade=blade;
+ if(!a.swung){if(!a.prepared){const t=a.t;a.t=Math.max(0,s.windup-1e-6);rememberSwing(this,a);a.t=t;}a.swung=true;this.sound(['heavy','light3'].includes(a.kind)?'heavy':'swing');}captureAfterimage(this,a);const blade=worldBlade(p),paths=sweptBlades(a.previousBlade,blade).filter(b=>clearLine(this,p.x,p.y-30,b.ax,b.ay));a.previousBlade=blade;
  const touches=r=>paths.some(b=>bladeTouches(b,r)&&clearLine(this,b.ax,b.ay,Math.max(r.x,Math.min(r.x+r.w,b.bx)),Math.max(r.y,Math.min(r.y+r.h,b.by))));
  for(const e of [...this.world.enemies,this.world.boss]){if(e.dead||e.boss&&(!this.bossActive||e!==this.world.boss)||a.hit.has(e.id)||!touches(body(e)))continue;a.hit.add(e.id);this.damageEnemy(e,this.attackDamage(a),p.dir,s.push,a.kind);if(a.kind==='upper'&&!e.boss&&!e.training&&!e.flying&&!e.dead){e.vy=-255;e.grounded=false;e.y-=1;}this.lastHits.push({enemy:e.id,kind:a.kind,t:a.t,windup:s.windup,end:s.end,blade:{...blade}});this.lastHits=this.lastHits.slice(-30);}
  const seal=this.world.objects.find(o=>o.id==='forgecache');if(a.kind==='heavy'&&this.profile.flags.forge&&!this.profile.flags.slag&&touches({x:seal.x-22,y:seal.y-35,w:44,h:35})){this.profile.flags.slag=true;this.tell('보물함을 묶은 쇠사슬이 끊어졌다.');this.fx(seal.x,seal.y-20,'hit',.8);this.sound('mechanism');this.save();}}

diff --git a/seventh-bell/src/renderer.js b/seventh-bell/src/renderer.js
@@ -36,14 +36,14 @@ export class Renderer{
  c.restore();this.atmosphere();if(g.effects.some(e=>e.kind==='parry'&&e.life>e.max-.07)){c.fillStyle='#fff1d61c';c.fillRect(0,0,WIDTH,HEIGHT);}if(p.action?.kind==='charge'&&p.action.t>=.5)this.glow(p.x-this.x+p.dir*8,p.y-this.y-39,17,'#e1c78f');
  if(p.hurt>0){c.fillStyle='#9b4538'+Math.floor(p.hurt/.28*38).toString(16).padStart(2,'0');c.fillRect(0,0,WIDTH,HEIGHT);}if(p.dead){c.fillStyle='#071018'+Math.min(225,Math.floor(p.deathT*85)).toString(16).padStart(2,'0');c.fillRect(0,0,WIDTH,HEIGHT);}
  }
- afterimages(){const g=this.g,c=this.c,echoes=g.bladeEchoes;let ghosts=0;for(let i=echoes.length-1;i>=0&&ghosts<3;i-=3){const e=echoes[i],age=g.clock-e.time;if(age<.025||age>=ECHO_LIFE)continue;drawPose(c,e.pose,e.x,e.y,e.dir,.18*(1-age/ECHO_LIFE),true);ghosts++;}
+ afterimages(){const g=this.g,c=this.c,echoes=g.bladeEchoes;let ghosts=0;for(let i=echoes.length-1;i>=0&&ghosts<2;i-=3){const e=echoes[i],age=g.clock-e.time;if(age<.025||age>=ECHO_LIFE)continue;drawPose(c,e.pose,e.x,e.y,e.dir,.12*(1-age/ECHO_LIFE),true);ghosts++;}
  c.save();c.lineJoin='round';c.lineCap='round';
  for(let i=1;i<echoes.length;i++){
   const a=echoes[i-1],b=echoes[i];if(a.swing!==b.swing||a.dir!==b.dir)continue;
-  const age=g.clock-b.time;if(age>=ECHO_LIFE||Math.hypot(a.blade.bx-b.blade.bx,a.blade.by-b.blade.by)>96)continue;
+  const age=g.clock-b.time;if(age>=ECHO_LIFE||Math.hypot(a.x-b.x,a.y-b.y)>96)continue;
   const edges=ribbonEdges(a.blade,b.blade);if(!edges)continue;
   const {outer,inner}=edges;
-  c.globalAlpha=.66*Math.pow(1-age/ECHO_LIFE,1.2);c.fillStyle=b.kind==='heavy'?'#e4c894':'#d7dec0';
+  c.globalAlpha=.8*Math.pow(1-age/ECHO_LIFE,1.2);c.fillStyle=['heavy','light3'].includes(b.kind)?'#f2cd91':'#eff5dc';
   c.beginPath();c.moveTo(outer[0].x,outer[0].y);
   for(let j=1;j<outer.length;j++)c.lineTo(outer[j].x,outer[j].y);
   for(let j=inner.length-1;j>=0;j--)c.lineTo(inner[j].x,inner[j].y);

diff --git a/seventh-bell/src/data.js b/seventh-bell/src/data.js
@@ -4,11 +4,11 @@ import {TALENTS} from './skills.js';
 export {TALENTS} from './skills.js';
 export const SAVE_KEY='seventh-bell.save.v1',WIDTH=640,HEIGHT=360;
 export const ATTACKS={
- light1:{duration:.46,windup:.083333,end:.116667,chainAt:.255,damage:18,reach:56,stamina:8,push:90,row:4,start:0},
- light2:{duration:.48,windup:.10,end:.133334,chainAt:.285,damage:23,reach:65,stamina:9,push:110,row:4,start:4},
- light3:{duration:.58,windup:.15,end:.183334,damage:33,reach:73,stamina:13,push:160,row:5,start:0},
- heavy:{duration:.86,windup:.30,end:.333334,damage:50,reach:78,stamina:23,push:210,row:5,start:4},
- thrust:{duration:.49,windup:.066667,end:.10,damage:26,stamina:12,push:130},
+ light1:{duration:.50,windup:.125,end:.158334,chainAt:.29,damage:18,reach:56,stamina:8,push:90,row:4,start:0},
+ light2:{duration:.52,windup:.13,end:.163334,chainAt:.32,damage:23,reach:65,stamina:9,push:110,row:4,start:4},
+ light3:{duration:.60,windup:.17,end:.203334,damage:33,reach:73,stamina:13,push:160,row:5,start:0},
+ heavy:{duration:.88,windup:.32,end:.353334,damage:50,reach:78,stamina:23,push:210,row:5,start:4},
+ thrust:{duration:.60,windup:.14,end:.173334,damage:26,stamina:12,push:130},
  upper:{duration:.54,windup:.10,end:.133334,damage:22,stamina:15,push:55},
  counter:{duration:.49,windup:.066667,end:.10,damage:38,stamina:16,push:170},
  plunge:{duration:.52,windup:.12,end:.16,damage:36,stamina:18,push:125},

diff --git a/seventh-bell/README.md b/seventh-bell/README.md
@@ -1,6 +1,6 @@
 # 잔향: 일곱 번째 종
 
-**ECHOES OF THE SEVENTH BELL · 0.9.0**
+**ECHOES OF THE SEVENTH BELL · 0.9.1**
 
 이름 없는 종 수리공이 누나를 찾아 왕국으로 돌아온다. 성벽·대성당·제철도시·서고·왕궁이 이어지는 **제1~5장**과 마지막 선택을 플레이할 수 있다. VOIDRUN·ELDERMERE와 코드, 에셋, 저장이 분리된 Canvas 2D/Web Audio 게임이다. 외부 런타임이나 CDN은 없다.
 
@@ -55,14 +55,14 @@ npm run build
 
 ## 모션과 검의 판정
 
-캐릭터의 기존 키와 성인 체형을 유지하고, 몸을 화면 안쪽으로 돌리던 자세를 옆모습으로 바꿨다. 기본기는 **횡베기 → 역방향 올려베기 → 양손 내려찍기**다. 어깨의 기울기, 무릎 굽힘과 발 디딤으로 힘을 싣고 옷자락이 뒤따라온다. 기본 3연타·강공격·공중 베기·낙하 공격에 전용 6×4 시트 여섯 장, 총 144개의 실제 몸 그림을 사용한다. 각각 24장이다. 준비 4장 → 타격 2장 → 복귀 18장으로, 칼이 지나가는 순간은 60Hz 기준 두 프레임이다. 방해받지 않은 여섯 종류 모두 24단계가 재생된다. 이어치기와 회피·점프 캔슬은 복귀 동작을 중단하므로 일부 복귀 그림을 건너뛴다. 회복약 동작은 캔슬할 수 없다.
+캐릭터의 기존 키와 성인 체형을 유지하고, 몸을 화면 안쪽으로 돌리던 자세를 옆모습으로 바꿨다. 기본기는 **큰 사선 베기 → 역방향 올려베기 → 양손 내려찍기**다. 어깨의 기울기, 무릎 굽힘과 발 디딤으로 힘을 싣고 옷자락이 뒤따라온다. 기본 3연타·강공격·공중 베기·낙하 공격·찌르기에 전용 6×4 시트 일곱 장, 총 168개의 실제 몸 그림을 사용한다. 각각 24장이다. 준비 4장 → 타격 2장 → 복귀 18장으로, 칼이 지나가는 순간은 60Hz 기준 두 프레임이다. 방해받지 않은 일곱 종류 모두 24단계가 재생된다. 이어치기와 회피·점프 캔슬은 복귀 동작을 중단하므로 일부 복귀 그림을 건너뛴다. 회복약 동작은 캔슬할 수 없다.
 
-회피 중 일반 공격은 긴 **찌르기**, ↑+공격은 일반 적을 띄우는 **대공기**, 공중 ↓+공격은 **낙하 공격**이다. 낙하는 실제 바닥에 닿아야 끝나며 원거리 충격파를 만들지 않는다. 대공기는 보스·날짐승·점검기사를 띄우지 않는다. K/X를 누르고 있다 떼면 강공격이 나가고, 0.5초 이상 모으면 피해가 1.65배가 된다. 집중은 놓는 순간 한 번만 쓴다. 모으는 중 이동·공격 무적이나 회복은 없고, 점프·회피·피격·창 전환으로 취소하면 뒤늦은 키 해제에서 공격이 나가지 않는다. 정면 패링 성공 후 0.8초 안에 공격하면 집중 16을 쓰는 **반격 베기**로 파고든다. 찌르기·반격의 이동도 벽과 충돌한다. 찌르기·반격은 횡베기 몸 그림을, 대공기는 올려베기 몸 그림을 재사용하며 무기 방향·타이밍·이동은 각각 다르다.
-각 그림의 주먹과 발을 따로 등록하고, 같은 등록점에 일정한 길이 30의 검을 붙인다. 손잡이부터 칼끝까지의 좌표와 좌우 반전을 **그림과 공격 판정이 함께 사용**한다. 프레임 사이의 칼날 경로도 검사하며 한 동작에서 한 적은 한 번만 맞는다. 준비·복귀와 잔상에는 공격 판정이 없다. 바닥에 선 채 손이 낮아지는 마무리 자세에서는 검끝이 지면을 뚫지 않도록 같은 등록 각도를 조정한다. 판정에는 2픽셀의 칼날 두께 여유가 있다. 제동·약병·공명은 기존 전용 동작을 사용한다.
+회피 중 일반 공격은 긴 **찌르기**, ↑+공격은 일반 적을 띄우는 **대공기**, 공중 ↓+공격은 **낙하 공격**이다. 낙하는 실제 바닥에 닿아야 끝나며 원거리 충격파를 만들지 않는다. 대공기는 보스·날짐승·점검기사를 띄우지 않는다. K/X를 누르고 있다 떼면 강공격이 나가고, 0.5초 이상 모으면 피해가 1.65배가 된다. 집중은 놓는 순간 한 번만 쓴다. 모으는 중 이동·공격 무적이나 회복은 없고, 점프·회피·피격·창 전환으로 취소하면 뒤늦은 키 해제에서 공격이 나가지 않는다. 정면 패링 성공 후 0.8초 안에 공격하면 집중 16을 쓰는 **반격 베기**로 파고든다. 찌르기·반격의 이동도 벽과 충돌한다. 찌르기는 전용 24장 시트를 쓴다. 0.14초 동안 팔꿈치를 뒤로 빼고 손을 허리 뒤로 당겨 뒷다리에 체중을 실었다가, 앞발을 디디며 팔과 검을 곧게 뻗는다. 반격은 기본 베기, 대공기는 올려베기의 몸 그림을 사용한다.
+각 그림의 주먹과 발을 따로 등록하고, 같은 등록점에 일정한 길이 48의 검을 붙인다. 손잡이부터 칼끝까지의 좌표와 좌우 반전을 **그림과 공격 판정이 함께 사용**한다. 검 길이는 30에서 48로 60% 늘렸다. 두 프레임의 칼끝을 직선으로 잇던 판정을 회전하는 칼날의 경로로 바꿔 큰 베기의 바깥쪽도 맞는다. 프레임 사이의 칼날 경로도 검사하며 한 동작에서 한 적은 한 번만 맞는다. 준비·복귀와 잔상에는 공격 판정이 없다. 바닥에 선 채 손이 낮아지는 마무리 자세에서는 검끝이 지면을 뚫지 않도록 같은 등록 각도를 조정한다. 판정에는 2픽셀의 칼날 두께 여유가 있다. 제동·약병·공명은 기존 전용 동작을 사용한다.
 
-칼날이 실제로 지나간 위치를 짧은 빛의 띠와 옅은 몸체 잔상으로 남긴다. 검 위치 사이를 하나의 큰 삼각형으로 채우지 않고, 회전 각도를 최대 2.5도 간격으로 나눠 둥근 가장자리로 연결한다. 이 곡선 보정은 잔상의 표시용이며 타격 범위를 늘리지 않는다. 잔상은 0.14초 안에 사라지고 추가 피해를 주지 않는다. 타격 정지 중에도 사라지며, 회피·막기·피격·사망·이동 시 이전 공격의 잔상을 비운다. 바닥에서 시작하거나 종길로 이동했을 때는 실제 발판을 검사해 첫 베기가 공중 모션으로 시작하지 않게 했다.
+칼날이 실제로 지나간 위치를 짧은 빛의 띠와 옅은 몸체 잔상으로 남긴다. 검 위치 사이를 하나의 큰 삼각형으로 채우지 않고, 회전 각도를 최대 2.5도 간격으로 나눠 둥근 가장자리로 연결한다. 잔상과 공격 판정은 같은 고정 길이의 칼날 회전 샘플을 쓴다. 준비 자세의 마지막 위치는 공격이 시작된 뒤에만 궤적에 포함하며, 준비 중에는 적을 때리지 않는다. 잔상은 0.14초 안에 사라지고 추가 피해를 주지 않는다. 타격 정지 중에도 사라지며, 회피·막기·피격·사망·이동 시 이전 공격의 잔상을 비운다. 바닥에서 시작하거나 종길로 이동했을 때는 실제 발판을 검사해 첫 베기가 공중 모션으로 시작하지 않게 했다.
 
-지상 공격은 준비할 때 2~4만큼 뒤로 체중을 싣고, 타격에 맞춰 9·11·16·14만큼 앞으로 디딘다. 움직임은 지형 충돌을 검사하므로 벽을 통과하지 않는다. 검을 베는 소리는 활성 구간에서 한 번 재생하며, 강공격과 마무리에는 더 무거운 소리와 타격 정지·화면 흔들림을 적용한다. 연습기사는 플레이어가 너무 붙으면 한 걸음 물러나 제대로 검이 닿는 거리에서 공격한다. 방향 전환은 실제 속도와 제동 자세를 따라가고, 공중 공격은 다리를 접은 전용 그림을 쓴다. 타격 정지는 일반 0.05초, 강한 일격·보스 타격은 최대 0.09초다. 패링에는 금속음·짧은 화면 섬광과 0.09초 정지를 준다. Q는 사거리 145의 실제 움직이는 공명 검을 내보내며 벽에서 사라진다. 검이 없는 넓은 공간을 즉시 타격하지 않는다. 점프 버퍼 0.13초·코요테 타임 0.11초, 가변 도약, 회피 무적, 정면 막기·패링은 유지했다.
+지상 공격은 준비할 때 3~4만큼 뒤로 체중을 싣고, 타격에 맞춰 9·11·16·14만큼 앞으로 디딘다. 움직임은 지형 충돌을 검사하므로 벽을 통과하지 않는다. 검을 베는 소리는 활성 구간에서 한 번 재생하며, 강공격과 마무리에는 더 무거운 소리와 타격 정지·화면 흔들림을 적용한다. 연습기사는 플레이어가 너무 붙으면 한 걸음 물러나 제대로 검이 닿는 거리에서 공격한다. 방향 전환은 실제 속도와 제동 자세를 따라가고, 공중 공격은 다리를 접은 전용 그림을 쓴다. 타격 정지는 일반 0.05초, 강한 일격·보스 타격은 최대 0.09초다. 패링에는 금속음·짧은 화면 섬광과 0.09초 정지를 준다. Q는 사거리 145의 실제 움직이는 공명 검을 내보내며 벽에서 사라진다. 검이 없는 넓은 공간을 즉시 타격하지 않는다. 점프 버퍼 0.13초·코요테 타임 0.11초, 가변 도약, 회피 무적, 정면 막기·패링은 유지했다.
 
 ## 기술 나무와 정비
 
@@ -109,6 +109,6 @@ npm run build
 
 ## 아트와 검증 한계
 
-생성한 원본 PNG 30장을 사용한다. 전용 베기 시트 여섯 장의 실제 몸 동작 144셀, 수리공 기본 64셀과 이전 동작 시트, 대기용 몸체·별도 검 이미지, 일반 적 48프레임, 다섯 보스 각 24프레임과 점검기사 24프레임, 다섯 지역의 배경과 지형·시설·함정 아틀라스다. 출처는 [assets/LICENSE.md](assets/LICENSE.md)에 기록했다. 사진이나 기존 게임의 스프라이트를 가져오지 않았다. 그리드 추출·등록점·알파 정리·최근접 출력으로 실제 게임에 연결했다. 사람이 모든 픽셀과 중간 동작을 다듬은 상용 팩이라고 주장하지 않는다. 일부 관절 연결과 중간 프레임은 더 다듬을 여지가 있다. 소리는 오리지널 Web Audio 합성과 편곡이다.
+생성한 원본 PNG 31장을 사용한다. 전용 베기·찌르기 시트 일곱 장의 실제 몸 동작 168셀, 수리공 기본 64셀과 이전 동작 시트, 대기용 몸체·별도 검 이미지, 일반 적 48프레임, 다섯 보스 각 24프레임과 점검기사 24프레임, 다섯 지역의 배경과 지형·시설·함정 아틀라스다. 출처는 [assets/LICENSE.md](assets/LICENSE.md)에 기록했다. 사진이나 기존 게임의 스프라이트를 가져오지 않았다. 그리드 추출·등록점·알파 정리·최근접 출력으로 실제 게임에 연결했다. 사람이 모든 픽셀과 중간 동작을 다듬은 상용 팩이라고 주장하지 않는다. 일부 관절 연결과 중간 프레임은 더 다듬을 여지가 있다. 소리는 오리지널 Web Audio 합성과 편곡이다.
 
-94개 단위 검사는 이동·전투·저장·경제의 회귀와 새 검 선분·기술 선행 조건·효과·함정·왕궁 장치·결말의 일회 저장을 다룬다. 초기화 이후 저장 차단과 실패 처리, 새 검의 고정 길이·서로 다른 베기 방향·뒤로 힘을 모으는 이동과 벽 충돌·타격음 시점·24단계 선택·60Hz 재생·이어치기 자세·잔상 수명·피해 중복 방지·공중/지상 전환도 검사한다. `test:techniques`는 실제 키보드·마우스·터치 경로의 대공과 점프 캔슬, 회피 찌르기, 낙하와 실제 착지, 길게 누른 모아 베기, 창 전환 취소, 실제 일반 적의 공격을 패링한 뒤 반격, 모바일 버튼 겹침을 검사한다. `test:reset`은 실제 새로고침과 페이지 종료 자동 저장, 삭제 취소·실패, 새 튜토리얼 저장, 다른 게임 기록 보존, 첫 플레이 후 모바일 초기화를 검사한다. `test:frames`는 잔상·파티클·피격 효과를 제외한 실제 렌더러에서 각 베기의 몸 이미지 24종·몸 실루엣 24종·완성 그림 24종을 확인하고, 60Hz 실행에서도 24단계를 확인한다. 단계별 그림은 `test-results/090-*-24-poses.png`에 남긴다. `test:motion`은 이 프레임 검사 후 실제 렌더러에서 세 번의 베기와 정확한 한 번씩의 피해, 둥근 잔상의 중간 가장자리, 좌클릭 방향·공중 베기·강공격·모바일 터치의 잔상을 캡처한다. `test:tutorial`은 새 게임의 기본 진입, 실제 착지와 키보드 이어치기, 입력으로 증명하는 회피·막기·강공격·공명, 중간 저장과 완료, 0.6 저장의 별도 연습과 복귀/새로고침, 터치 이동·점프·이어치기를 확인한다. 실제 Chromium 본편 경로 검사는 처음부터 획득한 저장으로 다섯 보스와 필수 장치·기록·왕궁의 마지막 선택까지 입력 드라이버로 진행한다. 해당 경로에서는 **일반 적과 함정만 제외해 지형·보스 전투를 분리**한다. 일반 적·투사체·함정·새 이미지 108셀·모바일 기술 학습과 화면은 별도 브라우저 검사로 확인한다. 함정 검사는 시작 위치를 정하는 독립 테스트 장면을 쓰며 점프 통과는 실제 이동 입력으로 검사한다. 전체 적과 함정이 있는 상태의 장시간 수동 완주, 모든 실기기 성능, 숨은 결말의 처음부터 끝까지의 수동 완주를 검증했다고 주장하지 않는다. 스크린샷은 무시되는 `test-results/`에 남긴다.
+99개 단위 검사는 이동·전투·저장·경제의 회귀와 새 검 선분·기술 선행 조건·효과·함정·왕궁 장치·결말의 일회 저장을 다룬다. 초기화 이후 저장 차단과 실패 처리, 새 검의 고정 길이·서로 다른 베기 방향·뒤로 힘을 모으는 이동과 벽 충돌·타격음 시점·24단계 선택·60Hz 재생·이어치기 자세·잔상 수명·피해 중복 방지·공중/지상 전환도 검사한다. `test:techniques`는 실제 키보드·마우스·터치 경로의 대공과 점프 캔슬, 회피 찌르기, 낙하와 실제 착지, 길게 누른 모아 베기, 창 전환 취소, 실제 일반 적의 공격을 패링한 뒤 반격, 모바일 버튼 겹침을 검사한다. 찌르기 직전의 팔꿈치·손 당김과 대시 후 전용 시트 재생을 키보드·터치로 확인하고, 80단위 앞의 적에게는 맞고 115단위의 적이나 벽 뒤에는 맞지 않는 큰 베기도 검사한다. `test:reset`은 실제 새로고침과 페이지 종료 자동 저장, 삭제 취소·실패, 새 튜토리얼 저장, 다른 게임 기록 보존, 첫 플레이 후 모바일 초기화를 검사한다. `test:frames`는 잔상·파티클·피격 효과를 제외한 실제 렌더러에서 각 베기의 몸 이미지 24종·몸 실루엣 24종·완성 그림 24종을 확인하고, 60Hz 실행에서도 24단계를 확인한다. 단계별 그림은 `test-results/091-*-24-poses.png`에 남긴다. `test:motion`은 이 프레임 검사 후 실제 렌더러에서 세 번의 베기와 정확한 한 번씩의 피해, 둥근 잔상의 중간 가장자리, 좌클릭 방향·공중 베기·강공격·모바일 터치의 잔상을 캡처한다. `test:tutorial`은 새 게임의 기본 진입, 실제 착지와 키보드 이어치기, 입력으로 증명하는 회피·막기·강공격·공명, 중간 저장과 완료, 0.6 저장의 별도 연습과 복귀/새로고침, 터치 이동·점프·이어치기를 확인한다. 실제 Chromium 본편 경로 검사는 처음부터 획득한 저장으로 다섯 보스와 필수 장치·기록·왕궁의 마지막 선택까지 입력 드라이버로 진행한다. 해당 경로에서는 **일반 적과 함정만 제외해 지형·보스 전투를 분리**한다. 일반 적·투사체·함정·새 이미지 108셀·모바일 기술 학습과 화면은 별도 브라우저 검사로 확인한다. 함정 검사는 시작 위치를 정하는 독립 테스트 장면을 쓰며 점프 통과는 실제 이동 입력으로 검사한다. 전체 적과 함정이 있는 상태의 장시간 수동 완주, 모든 실기기 성능, 숨은 결말의 처음부터 끝까지의 수동 완주를 검증했다고 주장하지 않는다. 스크린샷은 무시되는 `test-results/`에 남긴다.

diff --git a/seventh-bell/assets/LICENSE.md b/seventh-bell/assets/LICENSE.md
@@ -25,18 +25,19 @@ All visual game assets in this directory were created specifically for **Echoes 
 | arkein.png | exec-1a4faf34-56e6-4d1e-a047-bfaa768c45a5.png | Dedicated crownless king, 6×4 atlas; image-tool cleanup of exec-39bda410-1bd4-434a-9797-3de407408c90.png |
 | palace.png | exec-793bca28-746f-45ea-9fa2-1d57e8d38b8e.png | Original ruined palace panorama |
 | traps.png | exec-b3cccea2-4e2b-441f-851e-b993285f5abc.png | Animated spikes, pendulum, crusher, crossbow and royal machinery, 4×3 atlas |
-| cut-light1.png | exec-1abe2c02-bd81-41c4-b244-70707ba01349.png | Fixed side-view horizontal forehand, 24 adult body drawings in a 6×4 atlas |
+| cut-light1.png | exec-f81b606a-7325-49cb-892d-d3c5ee49e9f4.png | Broad two-handed diagonal forehand with rear-shoulder preparation, 24 adult body drawings in a 6×4 atlas |
 | cut-light2.png | exec-ea2f4c83-8bce-4342-97fc-8635f153c89b.png | Fixed side-view rising backhand, 24 adult body drawings in a 6×4 atlas |
 | cut-light3.png | exec-bea37259-b327-4e5b-83ba-e0376e845f9f.png | Fixed side-view overhead finisher, 24 adult body drawings in a 6×4 atlas |
 | cut-heavy.png | exec-c34bba55-ae95-4d7f-918b-8a39cab914d9.png | Fixed side-view charged overhead cut, 24 adult body drawings in a 6×4 atlas |
 | cut-air.png | exec-28fc479a-7c37-4e51-b3b2-e4bbee11f924.png | Fixed side-view airborne broad cut, 24 adult body drawings in a 6×4 atlas |
+| cut-thrust.png | exec-d52a0022-c7ac-481f-9575-9cb21d24747e.png | Dedicated elbow-back thrust preparation, long extension and recovery, 24 adult body drawings in a 6×4 atlas |
 | cut-plunge.png | exec-1af29740-a3bf-4e34-8bd4-839a2cafdcee.png | Dedicated vertical plunge and landing recovery, 24 adult body drawings in a 6×4 atlas |
 | cut-body.png | exec-572cf9d7-8978-4091-917e-1d40abae33a5.png | Original body-only downstroke, rising cut, finishing cut and ready stance, 8×4 atlas |
 | steel-blade.png | exec-37f8d1be-46d6-4471-827f-70085738cbc6.png | Original separate steel sword, attached to the registered fist with constant blade length |
 | tutor.png | exec-18fde72d-f3e6-4cb6-994b-2c9b4514d781.png | Original bell repair practice automaton, 6×4 animation atlas |
 | bell.svg | Authored in this task | Small original UI emblem |
 
-The six 0.9.0 attack sheets were edited with the image tool from the previous original sheets, preserving tall adult proportions and removing perspective turns. Each uses four anticipation, two impact and eighteen recovery drawings. The downward plunge holds its dive drawing until terrain contact. Thrust and counter reuse the horizontal body sequence; anti-air reuses the rising body sequence, with their own registered weapon direction, movement and timing.
+The six 0.9.0 attack sheets were edited with the image tool from the previous original sheets, preserving tall adult proportions and removing perspective turns. Each uses four anticipation, two impact and eighteen recovery drawings. The downward plunge holds its dive drawing until terrain contact. In 0.9.1 the first cut was replaced with a larger two-handed diagonal motion and thrust received its own 24-drawing sheet with a clear elbow-back chamber. Counter uses the first cut; anti-air uses the rising sequence. Steel is registered at length 48; rendered trails and collision use the same rigid rotating samples.
 
 Original generated outputs are retained in `/workspace/generated_images/`. Runtime code crops the explicit grid, rasterizes animation cells and disables interpolation. It does not use a photographic source or apply a photo-to-pixel effect. Alpha is thresholded for crisp sprite outlines. The source sheets are generated artwork, not represented as a manually hand-pixelled commercial pack.
 
